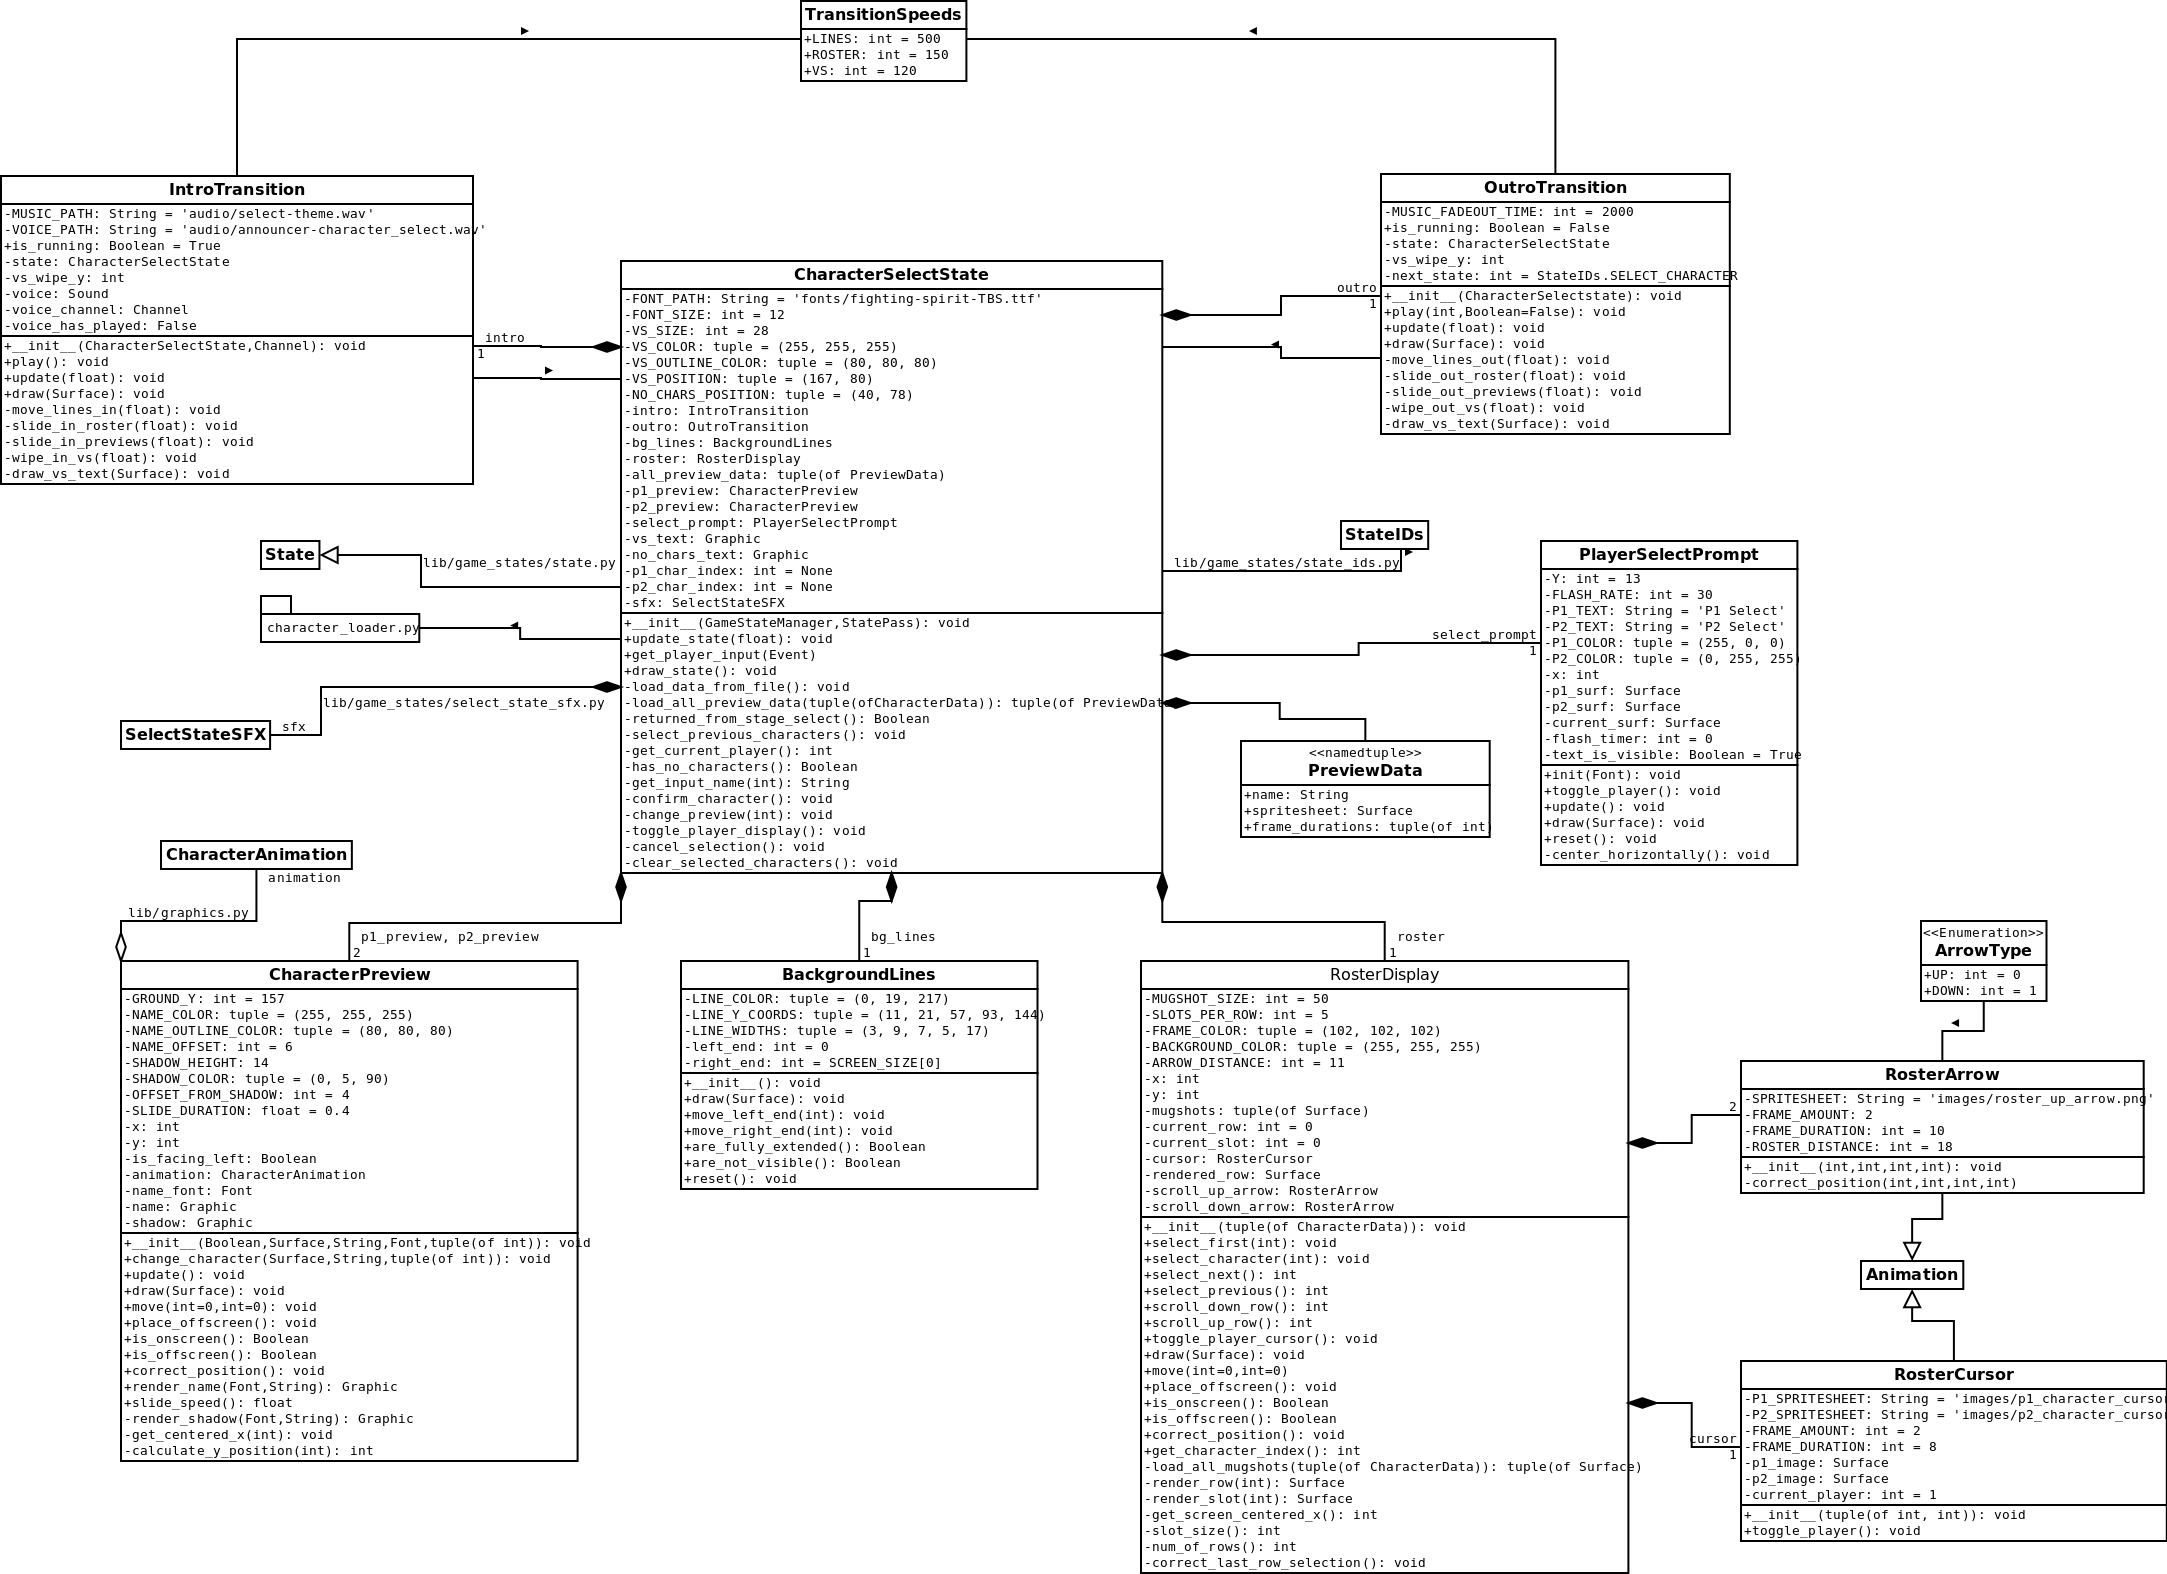
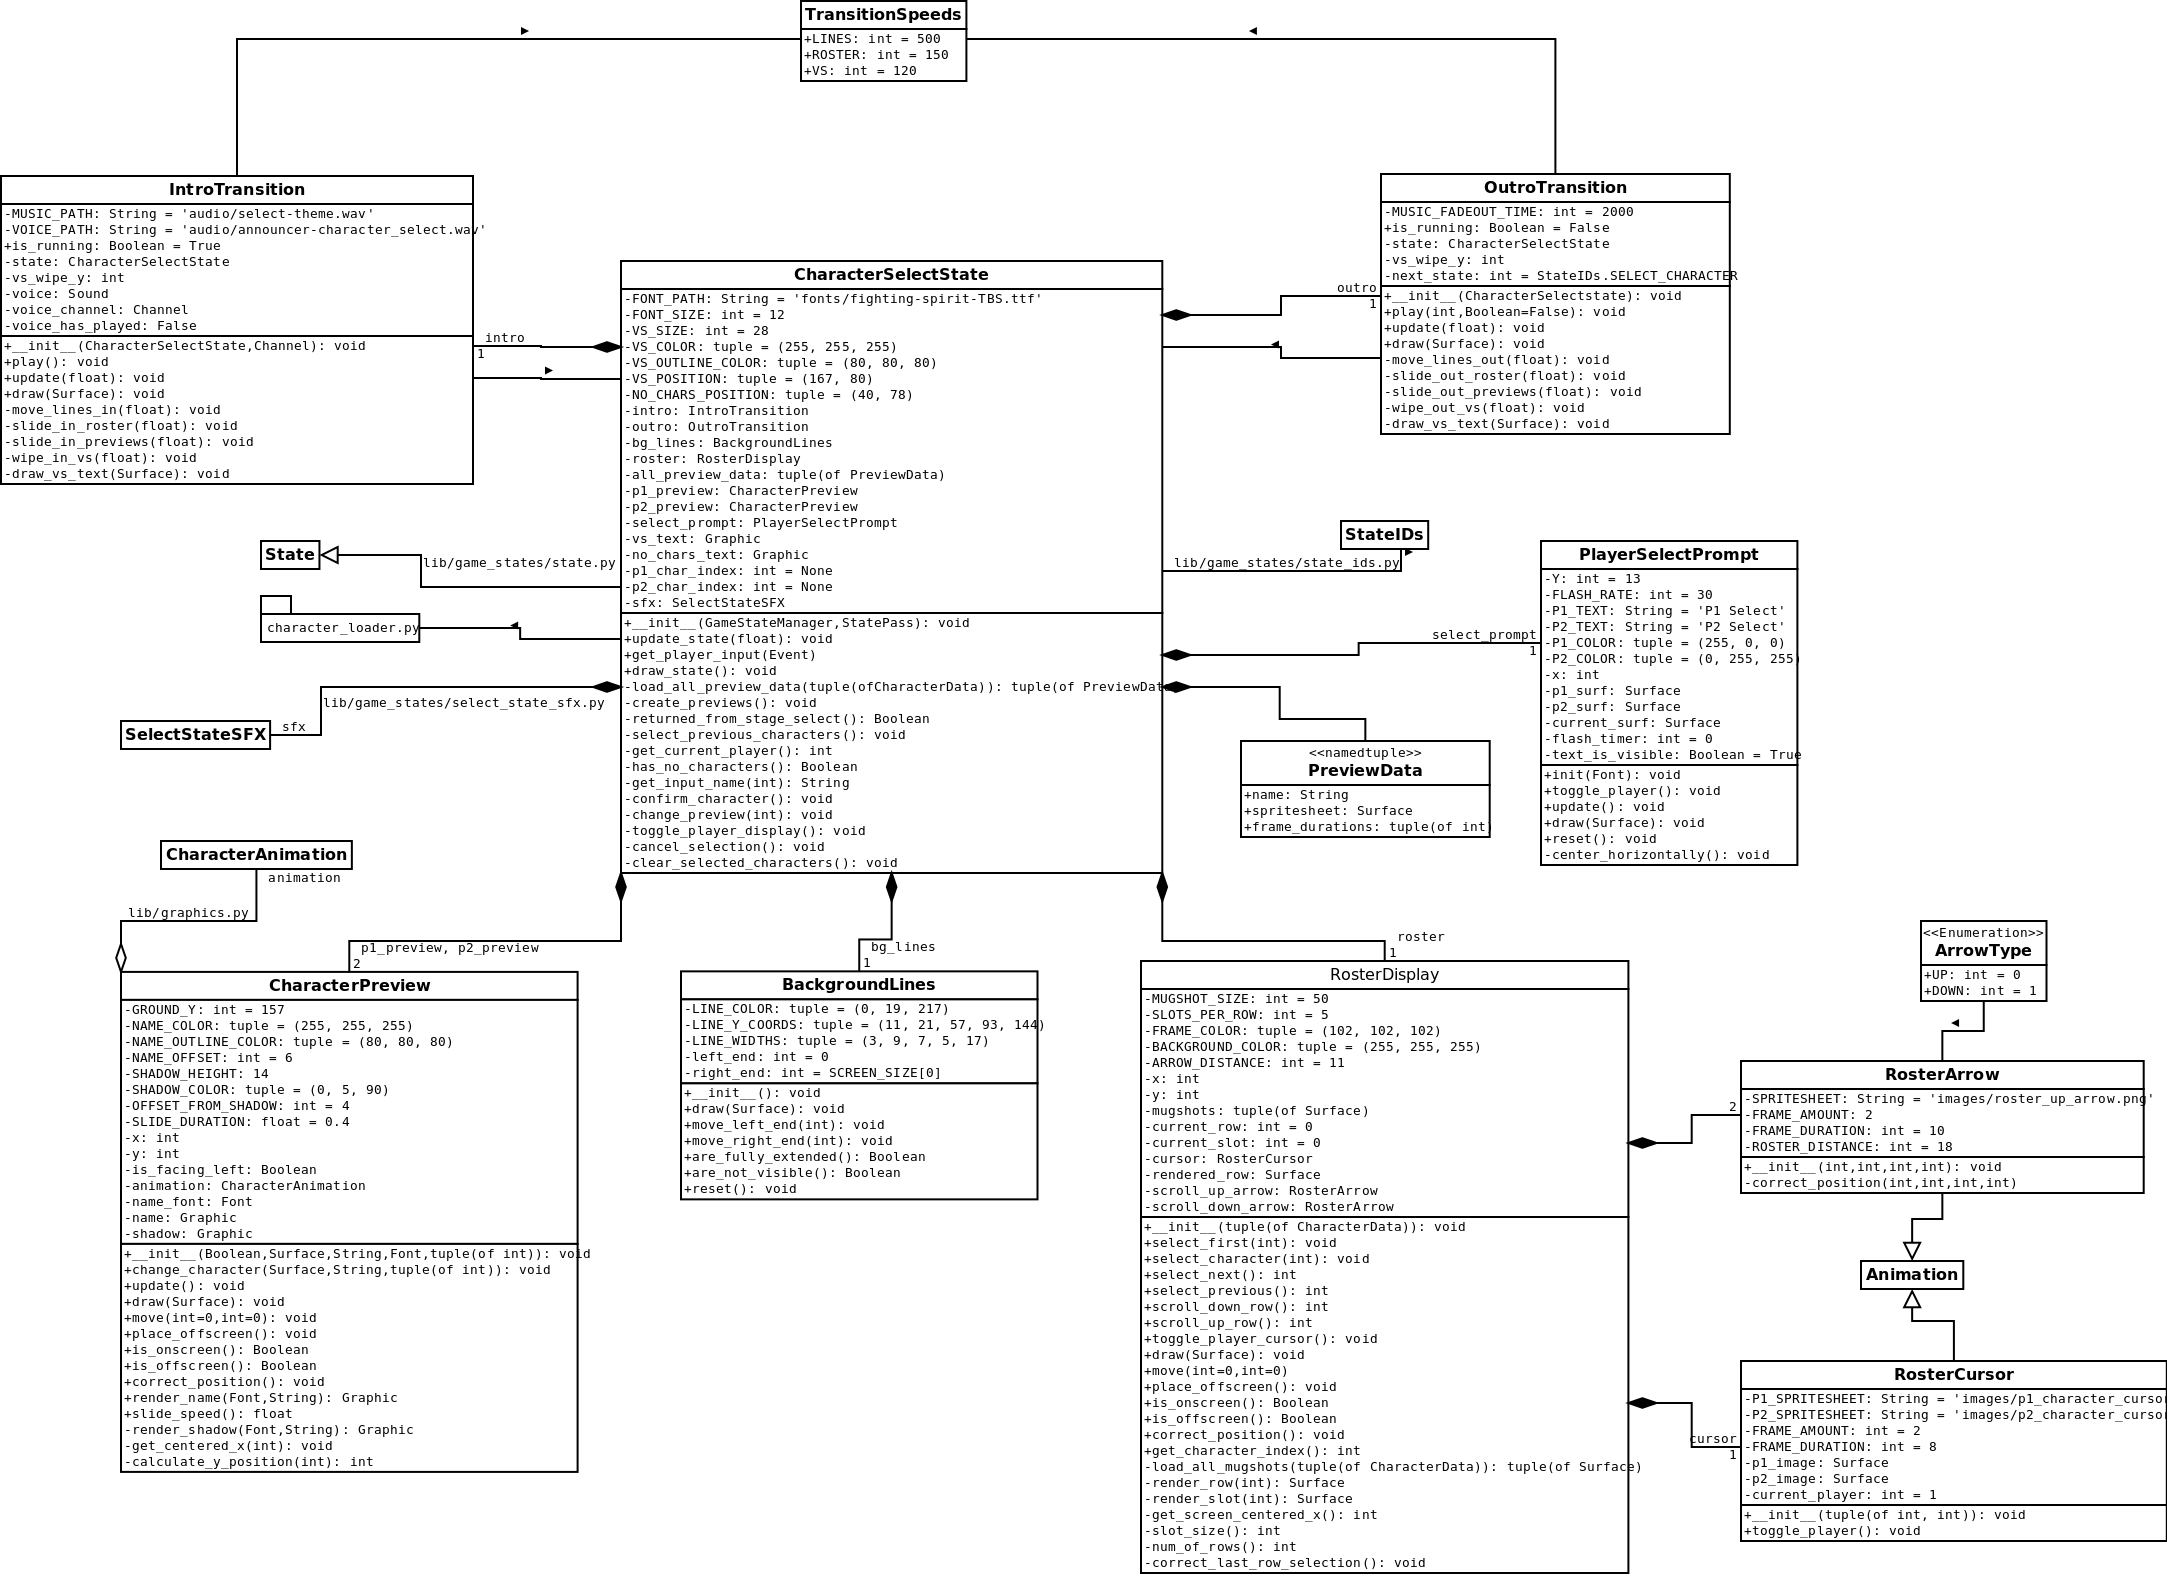
Refactor load_data_from_file() into other methods
Combining both the I/O and roster/preview initialization code makes for
a very messy function.

Since the I/O itself is a one-liner, it is easily placed in __init__()
instead.

Creating the previews requires more than one line, hence that operation
earns its own function.

diff --git a/lib/game_states/character_select_state.py b/lib/game_states/character_select_state.py
@@ -87,17 +87,18 @@ class CharacterSelectState(State):
                 passed between Game States.
         """
         super(CharacterSelectState, self).__init__(state_manager, state_pass)
+        all_chars = load_all_characters()
         general_font = pygame.font.Font(self.FONT_PATH, self.FONT_SIZE)
         vs_font = pygame.font.Font(self.FONT_PATH, self.VS_SIZE)
-
-        self.roster = None
-        self.all_preview_data = None
         self.p1_preview = None
         self.p2_preview = None
         self.p1_char_index = None
         self.p2_char_index = None
-        self.load_data_from_file()
 
+        self.roster = RosterDisplay(all_chars)
+        self.all_preview_data = self.load_all_preview_data(all_chars)
+        if not self.has_no_characters():
+            self.create_previews(general_font)
         self.bg_lines = BackgroundLines()
         self.select_prompt = PlayerSelectPrompt(general_font)
         self.vs_text = render_outlined_text(vs_font, 'VS', self.VS_COLOR,
@@ -114,7 +115,6 @@ class CharacterSelectState(State):
             wiped_in_text = self.no_chars_text
         else:
             wiped_in_text = self.vs_text
-
         self.intro = IntroTransition(self,
                                      self.state_pass.announcer_channel)
         self.outro = OutroTransition(self)
@@ -123,29 +123,6 @@ class CharacterSelectState(State):
             self.select_previous_characters()
         else:
             self.intro.play()
-
-    def load_data_from_file(self):
-        """Load all of the required character data from external
-        character files and use it to create the roster and character
-        previews.
-        """
-        general_font = pygame.font.Font(self.FONT_PATH, self.FONT_SIZE)
-
-        all_chars = load_all_characters()
-        if all_chars is None:
-            self.roster = RosterDisplay(None)
-            return
-
-        self.roster = RosterDisplay(all_chars)
-        self.all_preview_data = self.load_all_preview_data(all_chars)
-
-        first_char = self.all_preview_data[0]
-        self.p1_preview = CharacterPreview(False, first_char.spritesheet,
-                                           first_char.name, general_font,
-                                           first_char.frame_durations)
-        self.p2_preview = CharacterPreview(True, first_char.spritesheet,
-                                           first_char.name, general_font,
-                                           first_char.frame_durations)
 
     @staticmethod
     def load_all_preview_data(all_chars):
@@ -168,6 +145,22 @@ class CharacterSelectState(State):
                                                 frame_durations))
 
         return tuple(all_preview_data)
+
+    def create_previews(self, name_font):
+        """Initialize the CharacterPreviews to display the first
+        character on the roster.
+
+        Args:
+            name_font: A PyGame Font used for rendering the characters'
+                name text.
+        """
+        first_char = self.all_preview_data[0]
+        self.p1_preview = CharacterPreview(False, first_char.spritesheet,
+                                           first_char.name, name_font,
+                                           first_char.frame_durations)
+        self.p2_preview = CharacterPreview(True, first_char.spritesheet,
+                                           first_char.name, name_font,
+                                           first_char.frame_durations)
 
     def has_no_characters(self):
         """Return a Boolean indicating whether no characters could be
